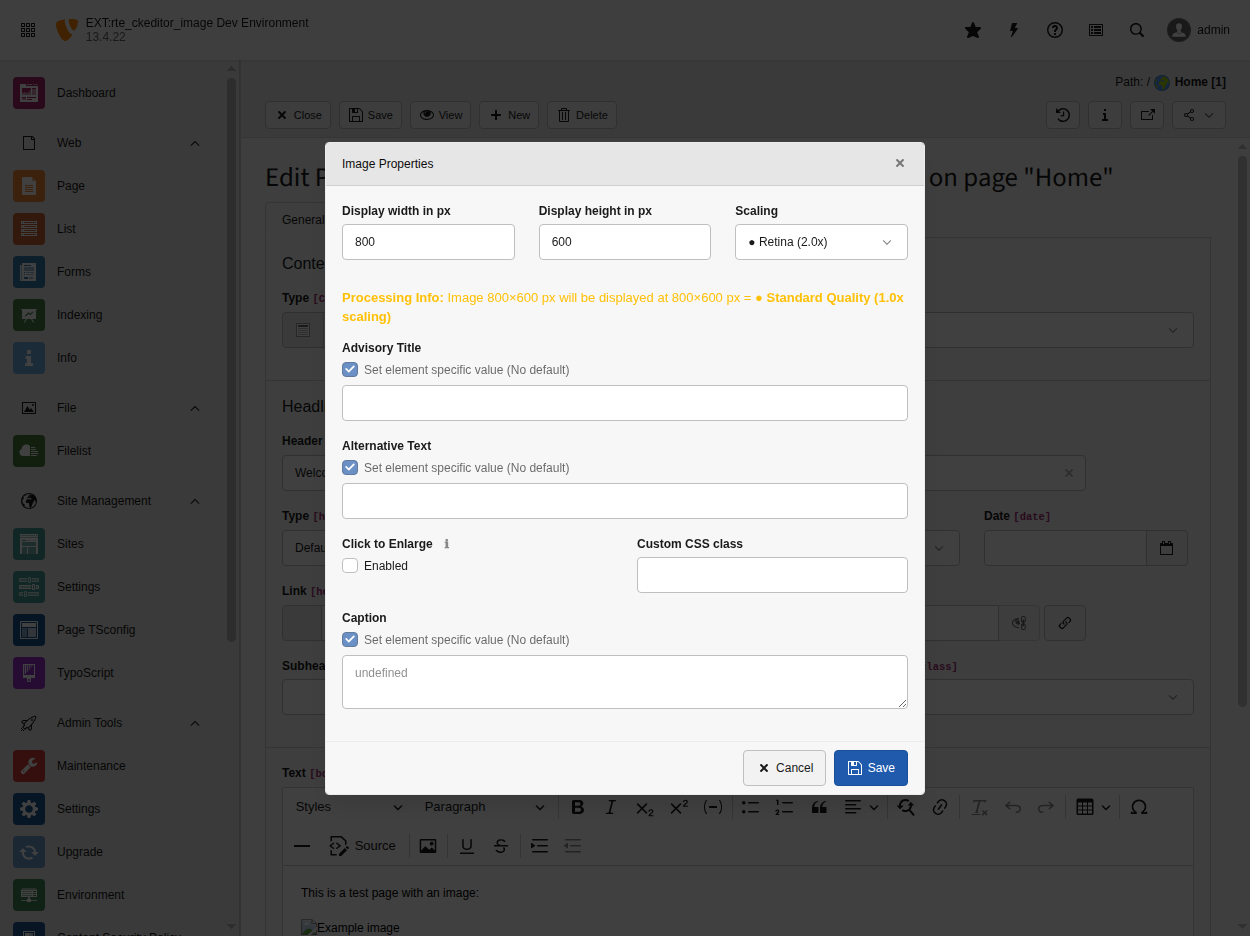
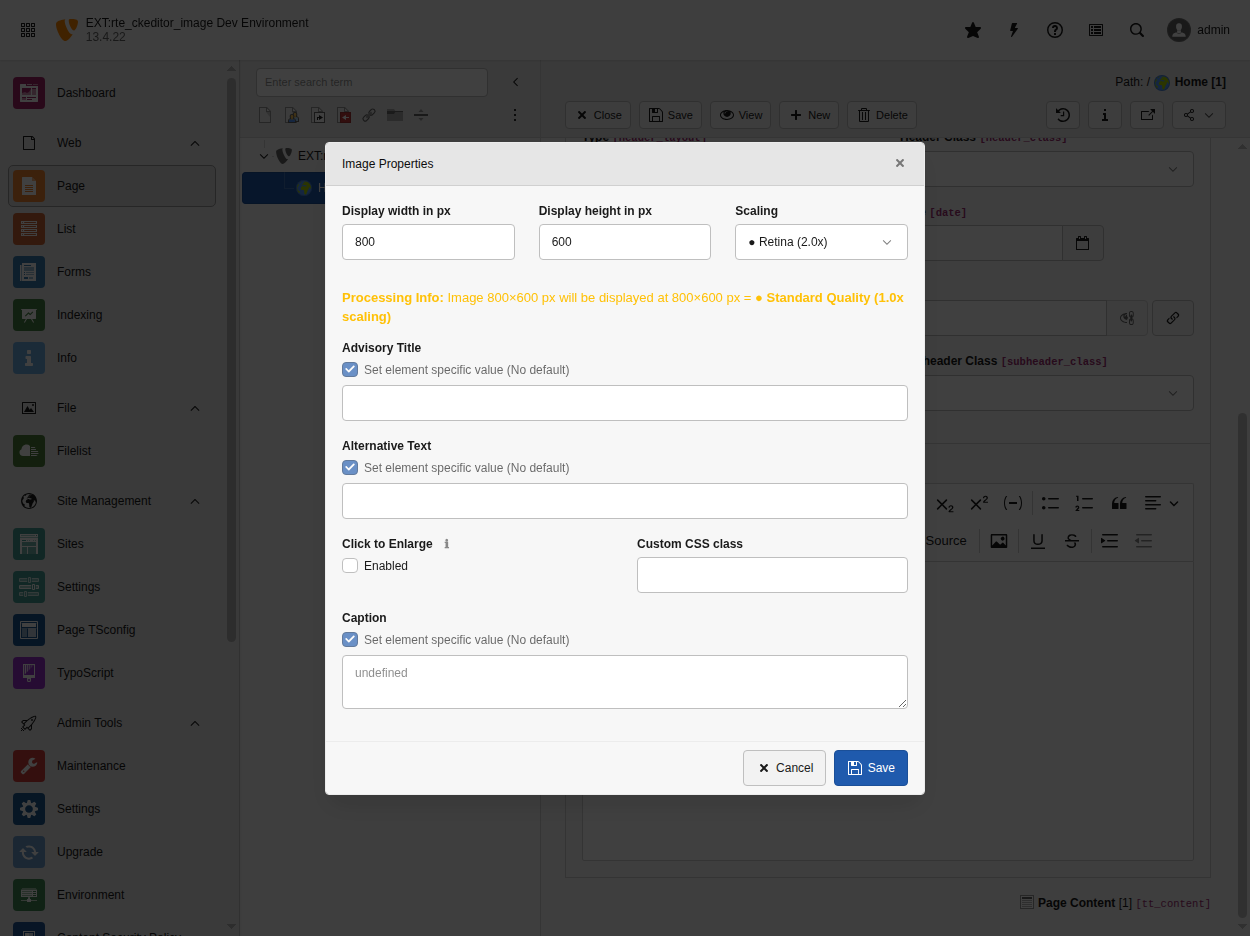
docs: update screenshots and fix figure captions
- Update screenshots with working image content (blue test image visible)
- Remove misleading "(click to enlarge)" text from figure captions
- Keep :target: directive for image links where supported

diff --git a/Documentation/Introduction/Index.rst b/Documentation/Introduction/Index.rst
@@ -130,7 +130,7 @@ Visual Preview
    :width: 600px
    :target: /Images/backend-rte-editor.png
 
-   The RTE with image support enabled, showing an inserted image with styling options (click to enlarge)
+   The RTE with image support enabled, showing an inserted image with styling options
 
 .. figure:: /Images/demo.gif
    :alt: RTE CKEditor Image extension demo
@@ -202,7 +202,7 @@ Install via Composer:
    :width: 600px
    :target: /Images/backend-extensions-list.png
 
-   The extension appears in the TYPO3 Extension Manager after installation (click to enlarge)
+   The extension appears in the TYPO3 Extension Manager after installation
 
 **That's it!** The extension works completely out-of-the-box with zero configuration:
 
@@ -223,7 +223,7 @@ Install via Composer:
    :width: 600px
    :target: /Images/backend-rte-with-image-button.png
 
-   The ``insertimage`` button in the CKEditor toolbar opens the TYPO3 file browser for image selection (click to enlarge)
+   The ``insertimage`` button in the CKEditor toolbar opens the TYPO3 file browser for image selection
 
 Custom Configuration (Optional)
 ================================

diff --git a/Documentation/Integration/Advanced-Configuration.rst b/Documentation/Integration/Advanced-Configuration.rst
@@ -124,7 +124,7 @@ The extension supports quality multipliers for high-DPI displays and print outpu
    :width: 400px
    :target: /Images/backend-quality-selector-dropdown.png
 
-   Quality multiplier dropdown in the image properties dialog (click to enlarge)
+   Quality multiplier dropdown in the image properties dialog
 
 ..  list-table:: Quality multiplier options
     :header-rows: 1
@@ -167,7 +167,7 @@ persists with the image and affects frontend processing dimensions.
    :width: 500px
    :target: /Images/backend-image-properties-dialog.png
 
-   Complete image properties dialog with title, alt text, dimensions, and quality settings (click to enlarge)
+   Complete image properties dialog with title, alt text, dimensions, and quality settings
 
 **TSConfig for quality-based processing:**
 

diff --git a/Documentation/Integration/TSConfig.rst b/Documentation/Integration/TSConfig.rst
@@ -32,7 +32,7 @@ Page TSConfig
    :width: 600px
    :target: /Images/backend-tsconfig-rte.png
 
-   Page TSConfig configuration in the TYPO3 backend (click to enlarge)
+   Page TSConfig configuration in the TYPO3 backend
 
 Magic Image Configuration
 -------------------------
